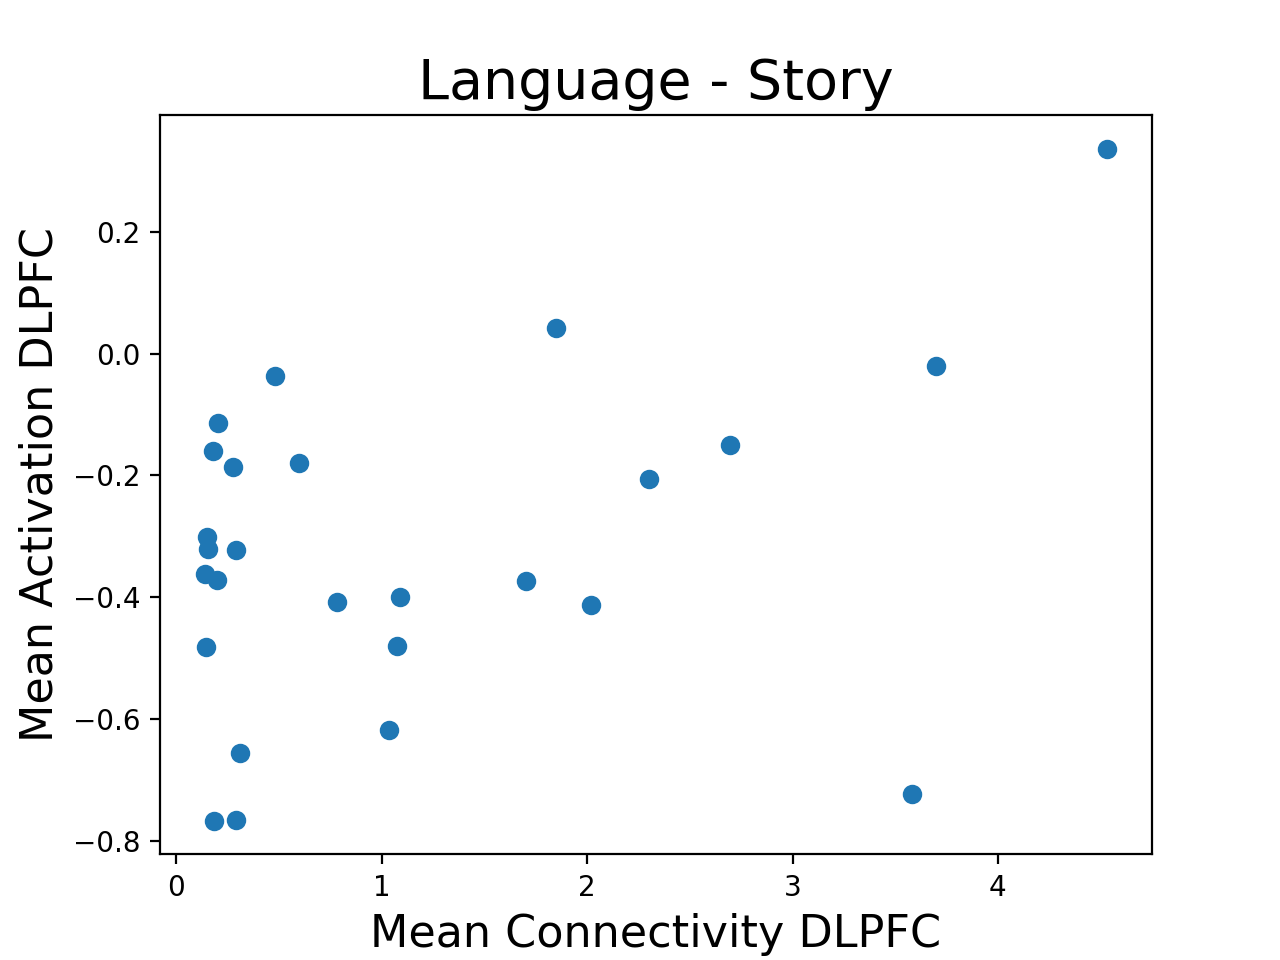
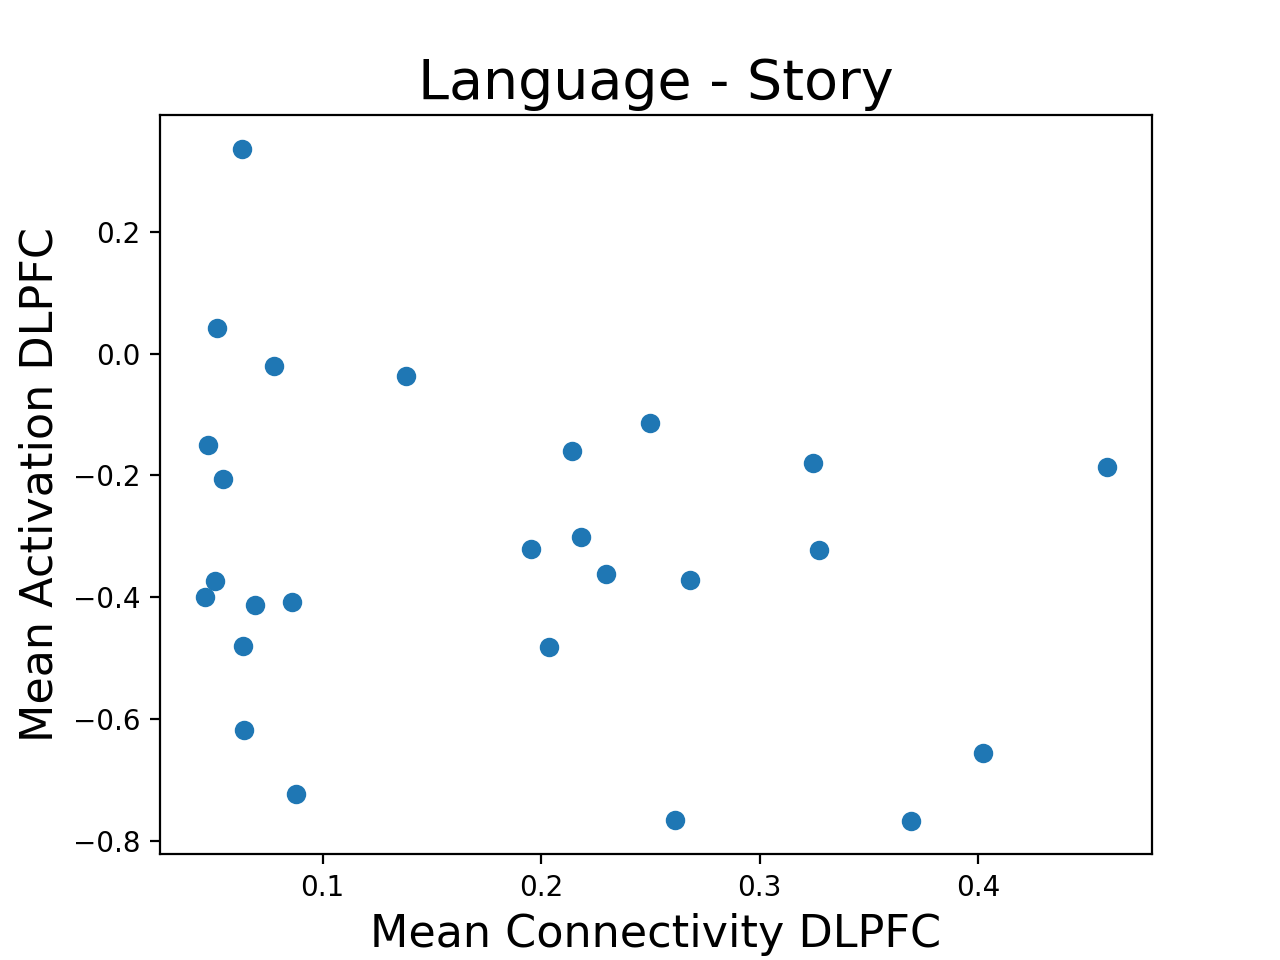
new plots

diff --git a/pool_sub.py b/pool_sub.py
@@ -75,8 +75,8 @@ print(np.corrcoef(mean_conn_DLPF_198, mean_act_DLPF[30,:]))
 # 'LANGUAGE_STORY' (Language Con 1): [173 124 304]  
 plt.figure()
 mean_conn_DLPF_173 = np.zeros([26])
-mean_conn_DLPF_173[0:13] = mean_conn_DLPF_r[197,:]
-mean_conn_DLPF_173[13:] = mean_conn_DLPF_l[197,:]
+mean_conn_DLPF_173[0:13] = mean_conn_DLPF_r[172,:]
+mean_conn_DLPF_173[13:] = mean_conn_DLPF_l[172,:]
 a = mean_act_DLPF[30,:]
 ax = plt.scatter(mean_conn_DLPF_173, mean_act_DLPF[30,:])
 plt.xlabel("Mean Connectivity DLPFC", fontsize=16)
